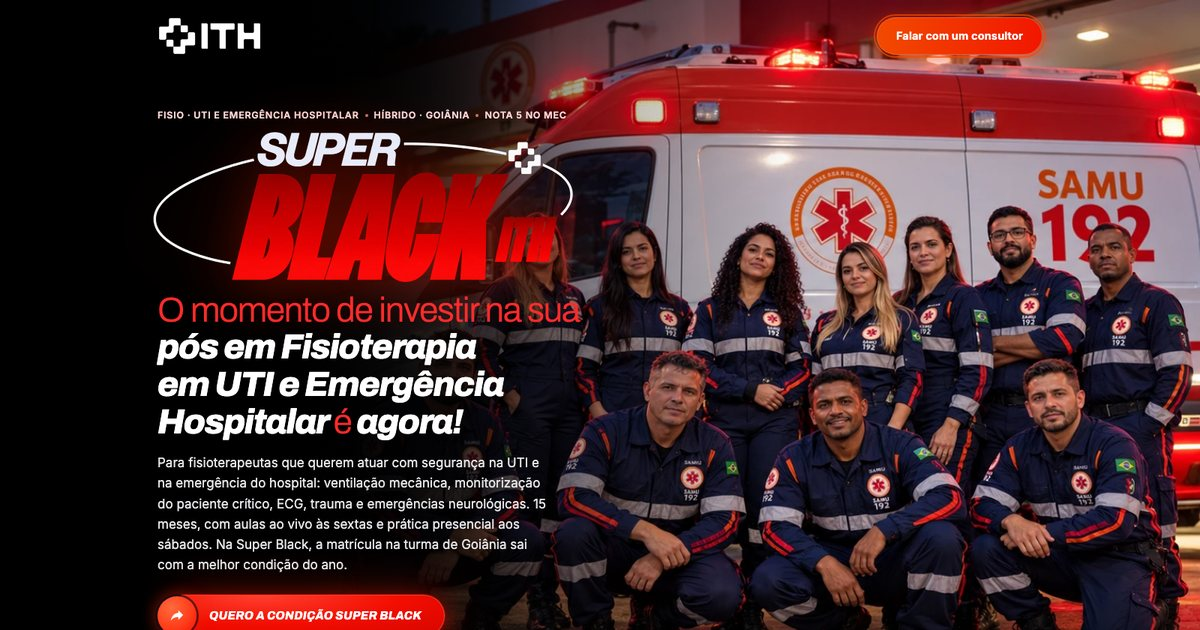
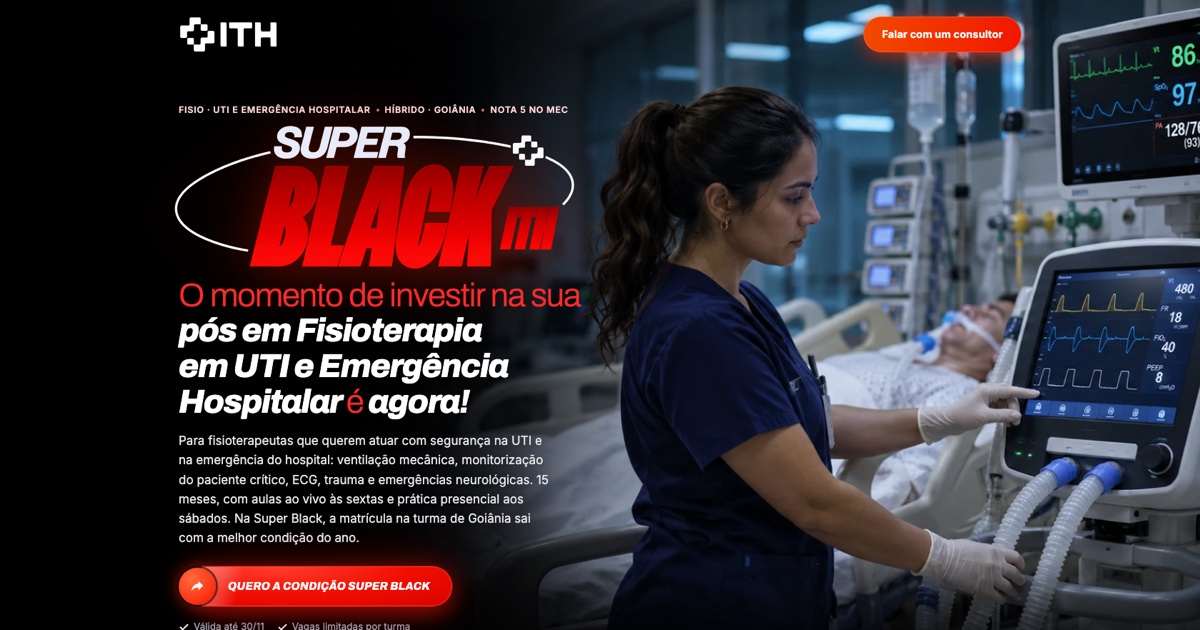
Super Black Fisio UTI: og.jpg com o novo hero (v=2)

diff --git a/lp/super-black-fisio-uti-emergencia-hospitalar/index.html b/lp/super-black-fisio-uti-emergencia-hospitalar/index.html
@@ -11,12 +11,12 @@
 <link rel="canonical" href="https://mkt.faculdadeith.com.br/lp/super-black-fisio-uti-emergencia-hospitalar/">
 <meta property="og:title" content="Super Black ITH · Pós em Fisioterapia em Unidade de Terapia Intensiva e Emergência Hospitalar">
 <meta property="og:description" content="O momento de investir na sua pós-graduação é agora. Condição Super Black até 30/11.">
-<meta property="og:image" content="https://mkt.faculdadeith.com.br/lp/super-black-fisio-uti-emergencia-hospitalar/og.jpg?v=1">
+<meta property="og:image" content="https://mkt.faculdadeith.com.br/lp/super-black-fisio-uti-emergencia-hospitalar/og.jpg?v=2">
 <meta property="og:image:width" content="1200">
 <meta property="og:image:height" content="630">
 <meta property="og:image:type" content="image/jpeg">
 <meta name="twitter:card" content="summary_large_image">
-<meta name="twitter:image" content="https://mkt.faculdadeith.com.br/lp/super-black-fisio-uti-emergencia-hospitalar/og.jpg?v=1">
+<meta name="twitter:image" content="https://mkt.faculdadeith.com.br/lp/super-black-fisio-uti-emergencia-hospitalar/og.jpg?v=2">
 <link rel="icon" href="https://faculdadeith.com.br/wp-content/uploads/2021/08/cropped-new-icon-32x32.png">
 <link rel="preconnect" href="https://fonts.googleapis.com">
 <link rel="preconnect" href="https://fonts.gstatic.com" crossorigin>
